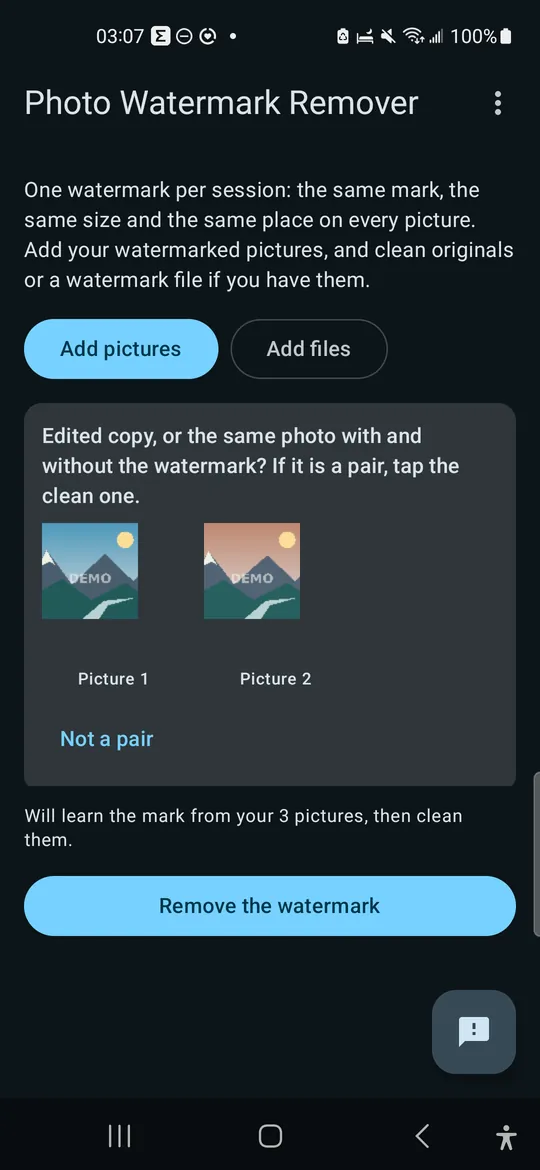
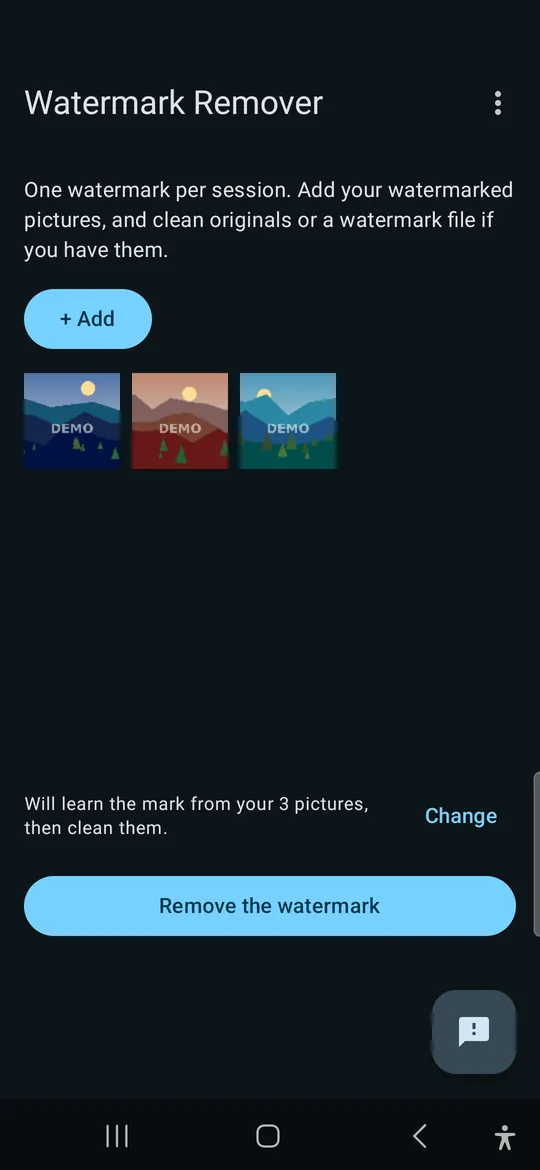
Watermark Remover: screens re-captured on the released 0.5.0 (69) APK
The eight shot-0500-* files were copies of the 0.2.13 captures. Replaced with captures of
the Play release AAB (universal APK, XCover Pro) on the distinct-scene DEMO pictures; status
bar blanked (Samsung ignores SystemUI demo mode). Encoded like shot-0213 (540x1170 LANCZOS,
JPEG q80 progressive, WebP q80 m6). data-shots-version -> 0.5.0. check_site.py SITE_CHECK_OK.

Claude-Session: https://claude.ai/code/session_018MTDy7buLepoMSXAgJd3oM

diff --git a/watermark-remover/index.html b/watermark-remover/index.html
@@ -74,7 +74,7 @@
       <div class="wrap">
         <div class="section-head">
           <div><span class="eyebrow">Five steps</span><h2 id="steps-title">Add, remove, check, refine, save.</h2></div>
-          <p class="section-intro">Unedited screens from version <span data-shots-version>0.2.13</span> in Easy mode, on original drawn test pictures (no real photos). The ideas behind the learning step are on <a href="/watermark-remover/how-it-works/">How it works</a>.</p>
+          <p class="section-intro">Unedited screens from version <span data-shots-version>0.5.0</span> in Easy mode, on original drawn test pictures (no real photos). The ideas behind the learning step are on <a href="/watermark-remover/how-it-works/">How it works</a>.</p>
         </div>
         <ol class="shots">
           <li><figure><span class="step-num" aria-hidden="true">1</span><picture><source srcset="/assets/img/wmr/shot-0500-02-ask.webp" type="image/webp"><img src="/assets/img/wmr/shot-0500-02-ask.jpg" width="540" height="1170" alt="The app asking about the added pictures, such as which copy is the clean original, with a way to decline, above the Remove the watermark button." loading="lazy" decoding="async"></picture><figcaption><strong>Add.</strong> Tap Add for pictures that carry the same mark — and clean originals or a watermark file if you have them. The app sorts them itself and asks only when unsure; Skip is always safe.</figcaption></figure></li>

diff --git a/watermark-remover/examples/index.html b/watermark-remover/examples/index.html
@@ -137,7 +137,7 @@
       <div class="wrap">
         <div class="section-head">
           <div><span class="eyebrow">The app</span><h2 id="screens-title">Eight screens, unedited.</h2></div>
-          <p class="section-intro">Screenshots of version <span data-shots-version>0.2.13</span> on a phone, working on three original drawn test pictures that carry the same DEMO mark. These are real screens, not scored examples: the percentages shown are the app’s own estimates.</p>
+          <p class="section-intro">Screenshots of version <span data-shots-version>0.5.0</span> on a phone, working on three original drawn test pictures that carry the same DEMO mark. These are real screens, not scored examples: the percentages shown are the app’s own estimates.</p>
         </div>
         <ol class="shots">
           <li><figure><picture><source srcset="/assets/img/wmr/shot-0500-01-home.webp" type="image/webp"><img src="/assets/img/wmr/shot-0500-01-home.jpg" width="540" height="1170" alt="The Easy mode start screen: one watermark per session, Add for pictures and files, and a Remove the watermark button that stays off until pictures are added." loading="lazy" decoding="async"></picture><figcaption>Easy mode: one watermark per session and one Add button for pictures, clean originals and watermark files.</figcaption></figure></li>
